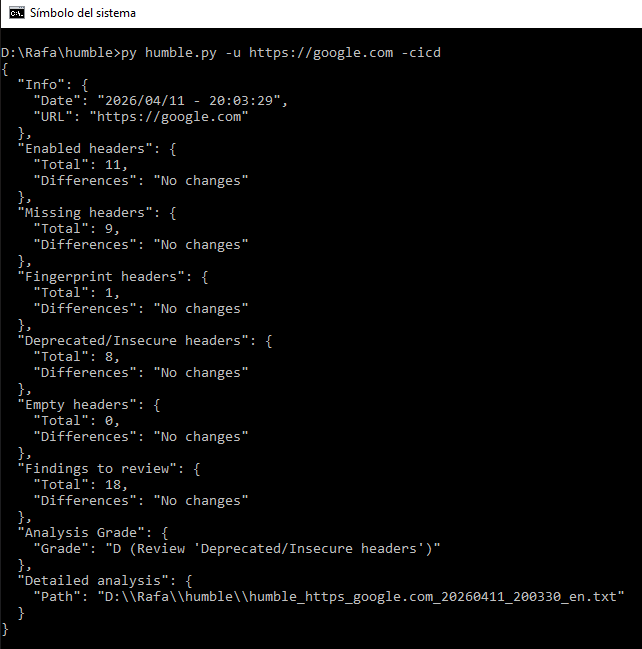
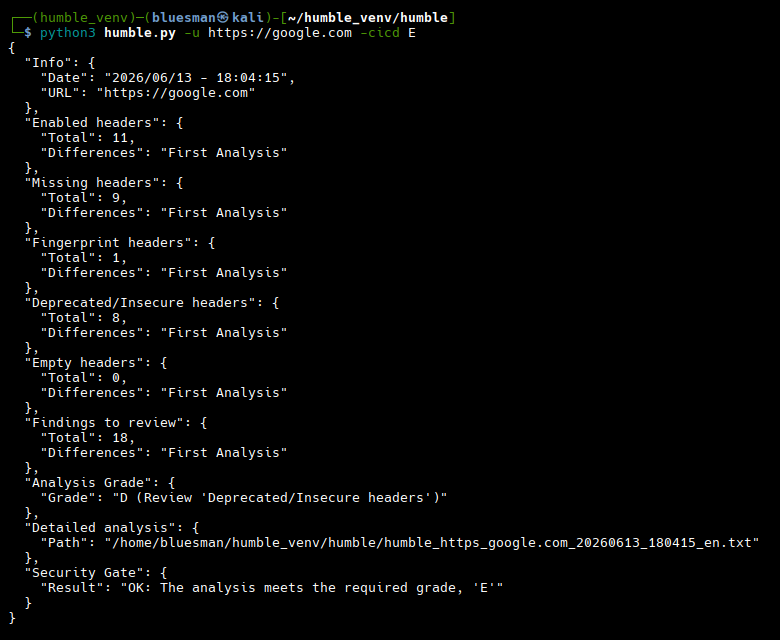
Feature: 3 new unit tests

Changed region(s): [[0.0, 0.0, 1.0, 0.9375], [0.0, 0.9375, 0.0623, 1.0]]

diff --git a/humble.py b/humble.py
@@ -74,7 +74,7 @@ cloudflare.com/support/troubleshooting/http-status-codes/cloudflare-5xx-errors\
 Reference/Status/", "https://raw.githubusercontent.com/rfc-st/humble/master/\
 humble.py", "https://github.com/rfc-st/humble")
 current_time = datetime.now().astimezone().strftime("%Y/%m/%d - %H:%M:%S")
-local_version = date.fromisoformat("2026-06-12")
+local_version = date.fromisoformat("2026-06-13")
 BANNER_VERSION = f"{URL_LIST[4]} | v.{local_version}"
 
 # Files, path resolution and system directories
@@ -2400,9 +2400,12 @@ def threshold_cicd(threshold_grade, totals):
     threshold_norm = threshold_grade.strip().upper()
     analysis_grade = validate_cicd_grade(threshold_norm, threshold_grade,
                                          totals)
-    failed = check_cicd(analysis_grade, threshold_norm)
-    msg_key = "[cicd_ko]" if failed else "[cicd_ok]"
-    return f"{get_detail(msg_key, replace=True)}, '{threshold_norm}'", failed
+    fails_security_gate = check_cicd(analysis_grade, threshold_norm)
+    msg_key = "[cicd_ko]" if fails_security_gate else "[cicd_ok]"
+    return (
+        f"{get_detail(msg_key, replace=True)}, '{threshold_norm}'",
+        fails_security_gate,
+    )
 
 
 def print_cicd_totals(tmp_filename, threshold_grade=None):

diff --git a/tests/test_humble.py b/tests/test_humble.py
@@ -142,6 +142,10 @@ TEST_CFGS = {
     "test_brief_analysis": (["-u", TEST_URLS[9], "-b"], "Analysis Grade:"),
     "test_cicd_analysis": (["-u", TEST_URLS[9], "-cicd"], "Analysis Grade"),
     "test_cicd_error": (["-u", TEST_URLS[9], "cicd"], "Error"),
+    "test_cicd_grade_error": (["-u", TEST_URLS[9], "-cicd", "g"], "Error"),
+    "test_cicd_grade_pass": (["-u", TEST_URLS[9], "-cicd", "E"], "meets"),
+    "test_cicd_grade_fail": (["-u", TEST_URLS[9], "-cicd", "A+"],
+                             "does not meet"),
     "test_client_error_response": (["-u", TEST_URLS[1], "-if",
                                     PATHS["CLIENT_ERROR"]], "HTTP code"),
     "test_client_unsupported_error": (["-u", TEST_URLS[18]], "HTTP code"),
@@ -640,7 +644,7 @@ def cleanup_analysis_history():
         fsync(original_file.fileno())
 
 
-local_version = date.fromisoformat("2026-06-12")
+local_version = date.fromisoformat("2026-06-13")
 parser = ArgumentParser(
     formatter_class=lambda prog: RawDescriptionHelpFormatter(
         prog, max_help_position=34,

diff --git a/README.md b/README.md
@@ -6,7 +6,7 @@
 <a target="_blank" href="https://devguide.python.org/versions/" title="Minimum Python version required to run this tool"><img src="https://img.shields.io/badge/Python-%3E%3D3.11-blue?labelColor=343b41"></a>
 <a target="_blank" href="LICENSE" title="License of this tool"><img src="https://img.shields.io/badge/License-MIT-blue.svg?labelColor=343b41"></a>
 <a target="_blank" href="https://github.com/rfc-st/humble/releases" title="Latest release of this tool"><img src="https://img.shields.io/github/v/release/rfc-st/humble?display_name=release&label=Latest%20Release&labelColor=343b41"></a>
-<a target="_blank" href="https://github.com/rfc-st/humble/commits/master" title="Latest commit of this tool"><img src="https://img.shields.io/badge/Latest_Commit-2026--06--12-blue.svg?labelColor=343b41"></a>
+<a target="_blank" href="https://github.com/rfc-st/humble/commits/master" title="Latest commit of this tool"><img src="https://img.shields.io/badge/Latest_Commit-2026--06--13-blue.svg?labelColor=343b41"></a>
 <a target="_blank" href="https://pkg.kali.org/pkg/humble" title="Official tool in Kali Linux"><img src="https://img.shields.io/badge/Kali%20Linux-Tool-blue?labelColor=343b41"></a>
 <br />
 <a target="_blank" href="#" title="Featured on:"><img src="https://img.shields.io/badge/Featured%20on:-343b41"></a>
@@ -166,10 +166,10 @@
 <img src="https://github.com/rfc-st/humble/blob/master/screenshots/humble_compliance_owasp.PNG" alt="(Linux) - Compliance with OWASP 'Secure Headers Project' best practices">
 </p>
 <br />
-.: (Windows) - JSON summary of the analysis, suitable for <a href="https://www.redhat.com/en/topics/devops/what-is-ci-cd" target="_blank">CI/CD</a>.<br />
+.: (Linux) - JSON summary of the analysis, suitable for <a href="https://www.redhat.com/en/topics/devops/what-is-ci-cd" target="_blank">CI/CD</a>.<br />
 <p></p>
 <p align="center">
-<img src="https://github.com/rfc-st/humble/blob/master/screenshots/humble_cicd.PNG" alt="(Windows) - JSON summary for CI/CD">
+<img src="https://github.com/rfc-st/humble/blob/master/screenshots/humble_cicd.PNG" alt="(Linux) - JSON summary for CI/CD">
 </p>
 <br />
 .: (Linux) - List of HTTP fingerprint headers based on a specific term.<br />

diff --git a/docs/index.md b/docs/index.md
@@ -81,6 +81,6 @@ And a special greeting to Alba, Aleix, Alejandro (x3), Álvaro, Ana, Carlos (x3)
 <aside class="md-source-file">
 <span class="md-source-file__fact">
 Last updated on
-<span class="git-revision-date-localized-plugin git-revision-date-localized-plugin-datetime"><em>June 12, 2026</em></span>
+<span class="git-revision-date-localized-plugin git-revision-date-localized-plugin-datetime"><em>June 13, 2026</em></span>
 </span>
 </aside>

diff --git a/docs/references.md b/docs/references.md
@@ -5,6 +5,6 @@
 <aside class="md-source-file">
 <span class="md-source-file__fact">
 Last updated on
-<span class="git-revision-date-localized-plugin git-revision-date-localized-plugin-datetime"><em>June 12, 2026</em></span>
+<span class="git-revision-date-localized-plugin git-revision-date-localized-plugin-datetime"><em>June 13, 2026</em></span>
 </span>
 </aside>

diff --git a/docs/unit_tests.md b/docs/unit_tests.md
@@ -22,6 +22,6 @@ Unit test descriptions are retrieved via `print_results` and `get_detail` functi
 <aside class="md-source-file">
 <span class="md-source-file__fact">
 Last updated on
-<span class="git-revision-date-localized-plugin git-revision-date-localized-plugin-datetime"><em>June 12, 2026</em></span>
+<span class="git-revision-date-localized-plugin git-revision-date-localized-plugin-datetime"><em>June 13, 2026</em></span>
 </span>
 </aside>